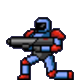
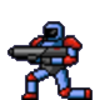
update

diff --git a/last_run'n_gun_hero/main.js b/last_run'n_gun_hero/main.js
@@ -355,12 +355,12 @@ function Hero(game, heroSprites,speed, ground, health) {
     this.back45DownRun = new Animation(heroSprites[15], this.x, this.y, 91, 101, 8, 0.1, 8, true);
     this.frontDown90Hero = new Animation(heroSprites[16], this.x, this.y, 90, 102, 1, 0.1, 1, true);
     this.frontDamageHero = new Animation(heroSprites[17], this.x, this.y, 100, 100, 1, 0.1, 1, true);
-    this.frontCrouchHero = new Animation(heroSprites[18], this.x, this.y, 77, 80, 1, 0.1, 1, true);
+    this.frontCrouchHero = new Animation(heroSprites[18], this.x, this.y, 96, 100, 1, 0.1, 1, true);
     this.frontUp90Hero = new Animation(heroSprites[19], this.x, this.y, 90, 102, 1, 0.1, 1, true);
     this.backUp90Hero = new Animation(heroSprites[20], this.x, this.y, 90, 102, 1, 0.1, 1, true);
     this.backDown90Hero = new Animation(heroSprites[21], this.x, this.y, 91, 102, 1, 0.1, 1, true);
     this.backDamageHero = new Animation(heroSprites[22], this.x, this.y, 100, 100, 1, 0.1, 1, true);
-    this.backCrouchHero = new Animation(heroSprites[23], this.x, this.y, 80, 80, 1, 0.1, 1, true);
+    this.backCrouchHero = new Animation(heroSprites[23], this.x, this.y, 100, 100, 1, 0.1, 1, true);
     this.jumping = false;
     this.speed = speed;
     this.health = health;
@@ -426,12 +426,14 @@ Hero.prototype.update = function () {
     if (this.game.s && !this.jumping) {
         if (this.standingStance > 0) {
             this.standingStance -= 1;
+            this.firingStance = 2;
         }
     }
 
     if (this.game.w && !this.jumping) {
         if (this.standingStance < 2) {
             this.standingStance += 1;
+            this.firingStance = 2;
         }
     }
 
@@ -610,10 +612,10 @@ Hero.prototype.draw = function () {
         this.frontCrawl.drawFrame(this.game.clockTick, this.ctx, this.x - cameraX, this.y);
     }
     else if (this.standingStance === 1 && this.standForward) {
-        this.frontCrouchHero.drawFrame(this.game.clockTick, this.ctx, this.x - cameraX, this.y + 20);
+        this.frontCrouchHero.drawFrame(this.game.clockTick, this.ctx, this.x - cameraX, this.y);
     }
     else if (this.standingStance === 1 && !this.standForward) {
-        this.backCrouchHero.drawFrame(this.game.clockTick, this.ctx, this.x - cameraX, this.y + 20);
+        this.backCrouchHero.drawFrame(this.game.clockTick, this.ctx, this.x - cameraX, this.y);
     }
     else if (this.standingStance === 0 && !this.standForward) {
         this.backCrawl.drawFrame(this.game.clockTick, this.ctx, this.x - cameraX, this.y);
@@ -689,8 +691,8 @@ function EnemySoldier(game, backRunSprite, frontRunSprite, backStandSprite, fron
     this.enemyFrontRun = new Animation(frontRunSprite, this.x, this.y, 104, 100, 8, 0.1, 8, true);
     this.enemyBackStand = new Animation(backStandSprite, this.x, this.y, 98, 100, 1, 0.1, 1, true);
     this.enemyFrontStand = new Animation(frontStandSprite, this.x, this.y, 98, 100, 1, 0.1, 1, true);
-    this.enemyBackCrouch = new Animation(frontCrouchSprite, this.x, this.y, 78, 80, 1, 0.1, 1, true);
-    this.enemyFrontCrouch = new Animation(backCrouchSprite, this.x, this.y, 78, 80, 1, 0.1, 1, true);
+    this.enemyBackCrouch = new Animation(frontCrouchSprite, this.x, this.y, 98, 100, 1, 0.1, 1, true);
+    this.enemyFrontCrouch = new Animation(backCrouchSprite, this.x, this.y, 98, 100, 1, 0.1, 1, true);
     this.speed = unitSpeed;
     this.health = health;
     this.ctx = game.ctx;
@@ -802,7 +804,7 @@ EnemySoldier.prototype.draw = function () {
     if (this.forward) {
         if (this.standing) {
             if (this.crouch) this.enemyBackCrouch.drawFrame(this.game.clockTick, this.ctx
-                , this.x - cameraX, this.y + 20);
+                , this.x - cameraX, this.y );
             else this.enemyFrontStand.drawFrame(this.game.clockTick, this.ctx
                 , this.x - cameraX, this.y);   
         }
@@ -811,7 +813,7 @@ EnemySoldier.prototype.draw = function () {
     else {
         if (this.standing) {
             if (this.crouch) this.enemyFrontCrouch.drawFrame(this.game.clockTick, this.ctx
-                , this.x - cameraX, this.y + 20);
+                , this.x - cameraX, this.y);
             else this.enemyBackStand.drawFrame(this.game.clockTick, this.ctx, this.x - cameraX, this.y);
         }
         else this.enemyBackRun.drawFrame(this.game.clockTick, this.ctx, this.x - cameraX, this.y );
@@ -917,7 +919,7 @@ Robot.prototype.draw = function () {
 }
 
 function landMine(game, landMineSprite,  xCord, yCord, health) {
-    this.landMineActive = new Animation(landMineSprite, this.x, this.y, 23, 19, 4, 0.1, 4, true);
+    this.landMineActive = new Animation(landMineSprite, this.x, this.y, 22.75, 20, 4, 0.1, 4, true);
     this.health = 500;
     this.ctx = game.ctx;
     this.width = 22;
@@ -1325,7 +1327,7 @@ AM.downloadAll(function () {
     
     gameEngine.addEntity(new Camera(gameEngine));
     
-    gameEngine.addEntity(new Robot(gameEngine, AM.getAsset("./img/red_Robot.png"), AM.getAsset("./img/red_Robot.png"), 300, 575, 60, 1));
+   // gameEngine.addEntity(new Robot(gameEngine, AM.getAsset("./img/red_Robot.png"), AM.getAsset("./img/red_Robot.png"), 300, 575, 60, 1));
     
     gameEngine.addEntity(new Robot(gameEngine, AM.getAsset("./img/blue_Robot.png"), AM.getAsset("./img/blue_Robot.png"), 1200, 575, 60, 1));
     
@@ -1368,13 +1370,13 @@ AM.downloadAll(function () {
     //gameEngine.addEntity(new FlyingRobot(gameEngine, AM.getAsset("./img/flyingRobot_Backward.png")
     //, AM.getAsset("./img/flyingRobot_Forward.png"), 500, 200,60, 2));
 
-    // gameEngine.addEntity(new GunTurrent(gameEngine, AM.getAsset("./img/firingGunTurrent.png")
-    // , AM.getAsset("./img/idleGunTurrent.png"),400, 565, 5));
+    gameEngine.addEntity(new GunTurrent(gameEngine, AM.getAsset("./img/firingGunTurrent.png")
+    , AM.getAsset("./img/idleGunTurrent.png"),400, 565, 5));
 
     gameEngine.addEntity(new GiantRobot(gameEngine, AM.getAsset("./img/giantRobotFiringFoward.png")
      , AM.getAsset("./img/giantRobotFoward.png"),600,427, 5));
 
-    //gameEngine.addEntity(new landMine(gameEngine, AM.getAsset("./img/landMines.png"),200,610, 5));
+    gameEngine.addEntity(new landMine(gameEngine, AM.getAsset("./img/landMines.png"),200,610, 5));
 
     //gameEngine.addPowerUp(new FirePowerUp(gameEngine, AM.getAsset("./img/firepowerup.png")));
 
